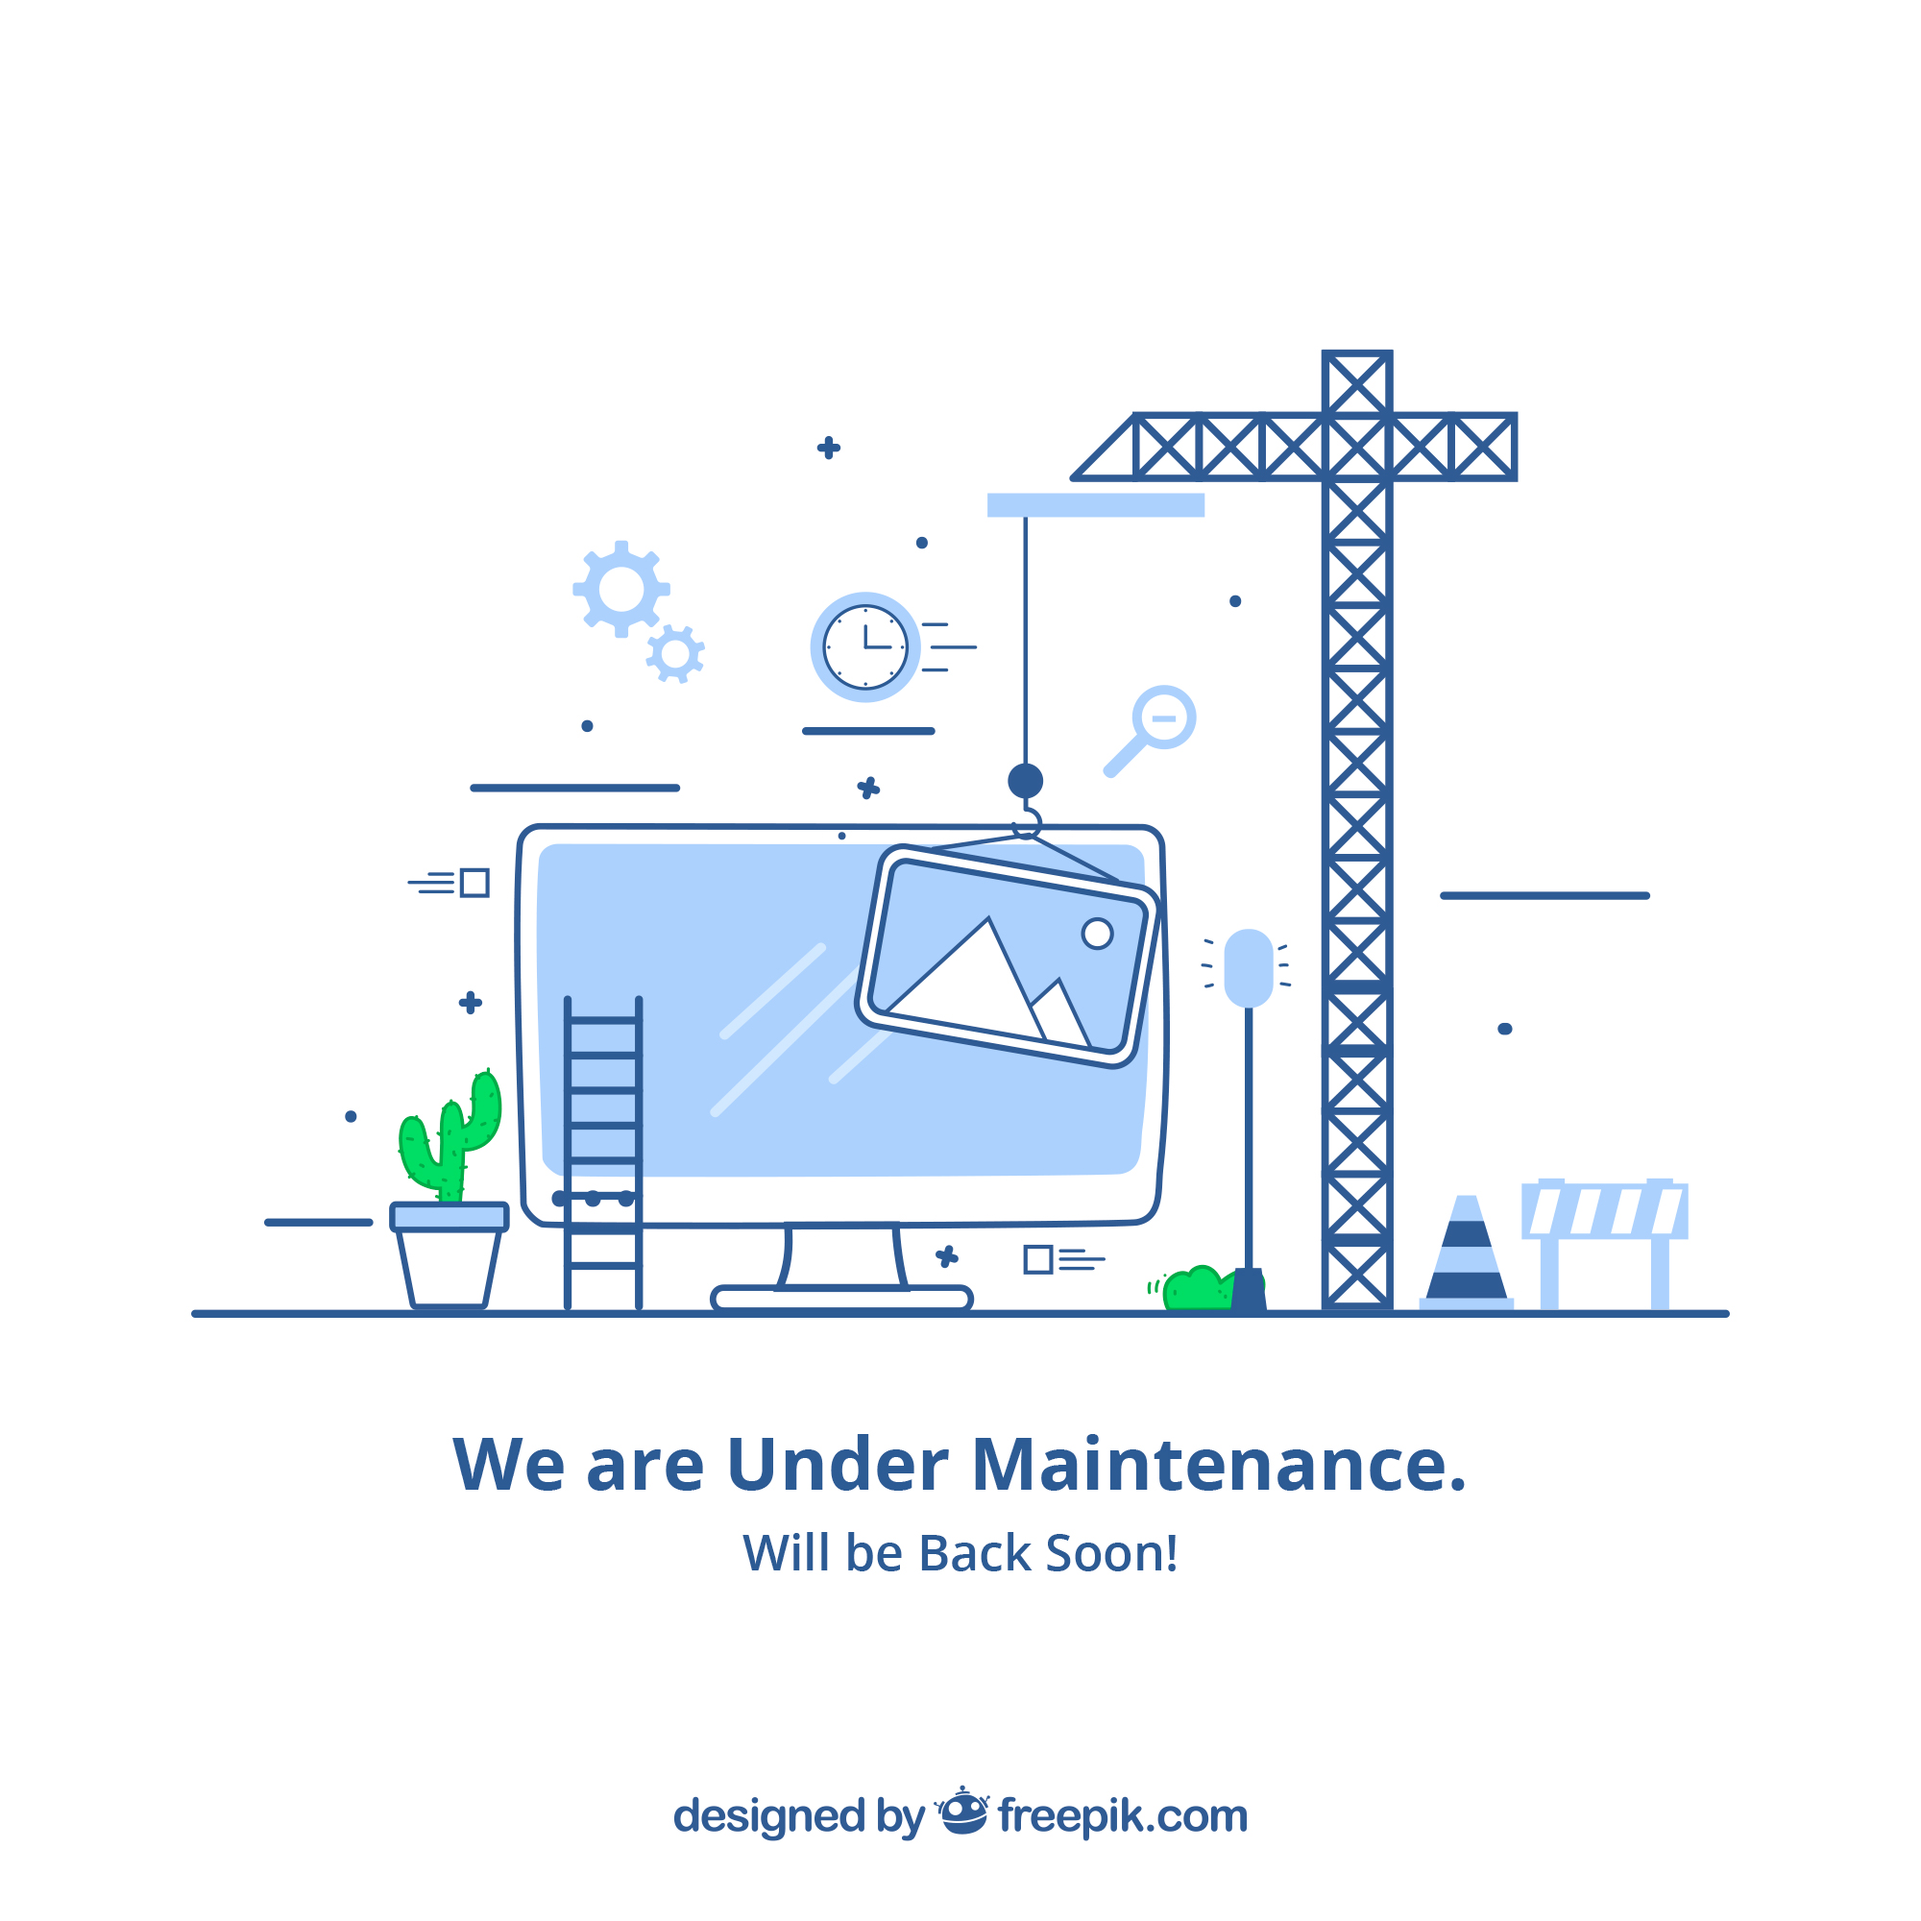
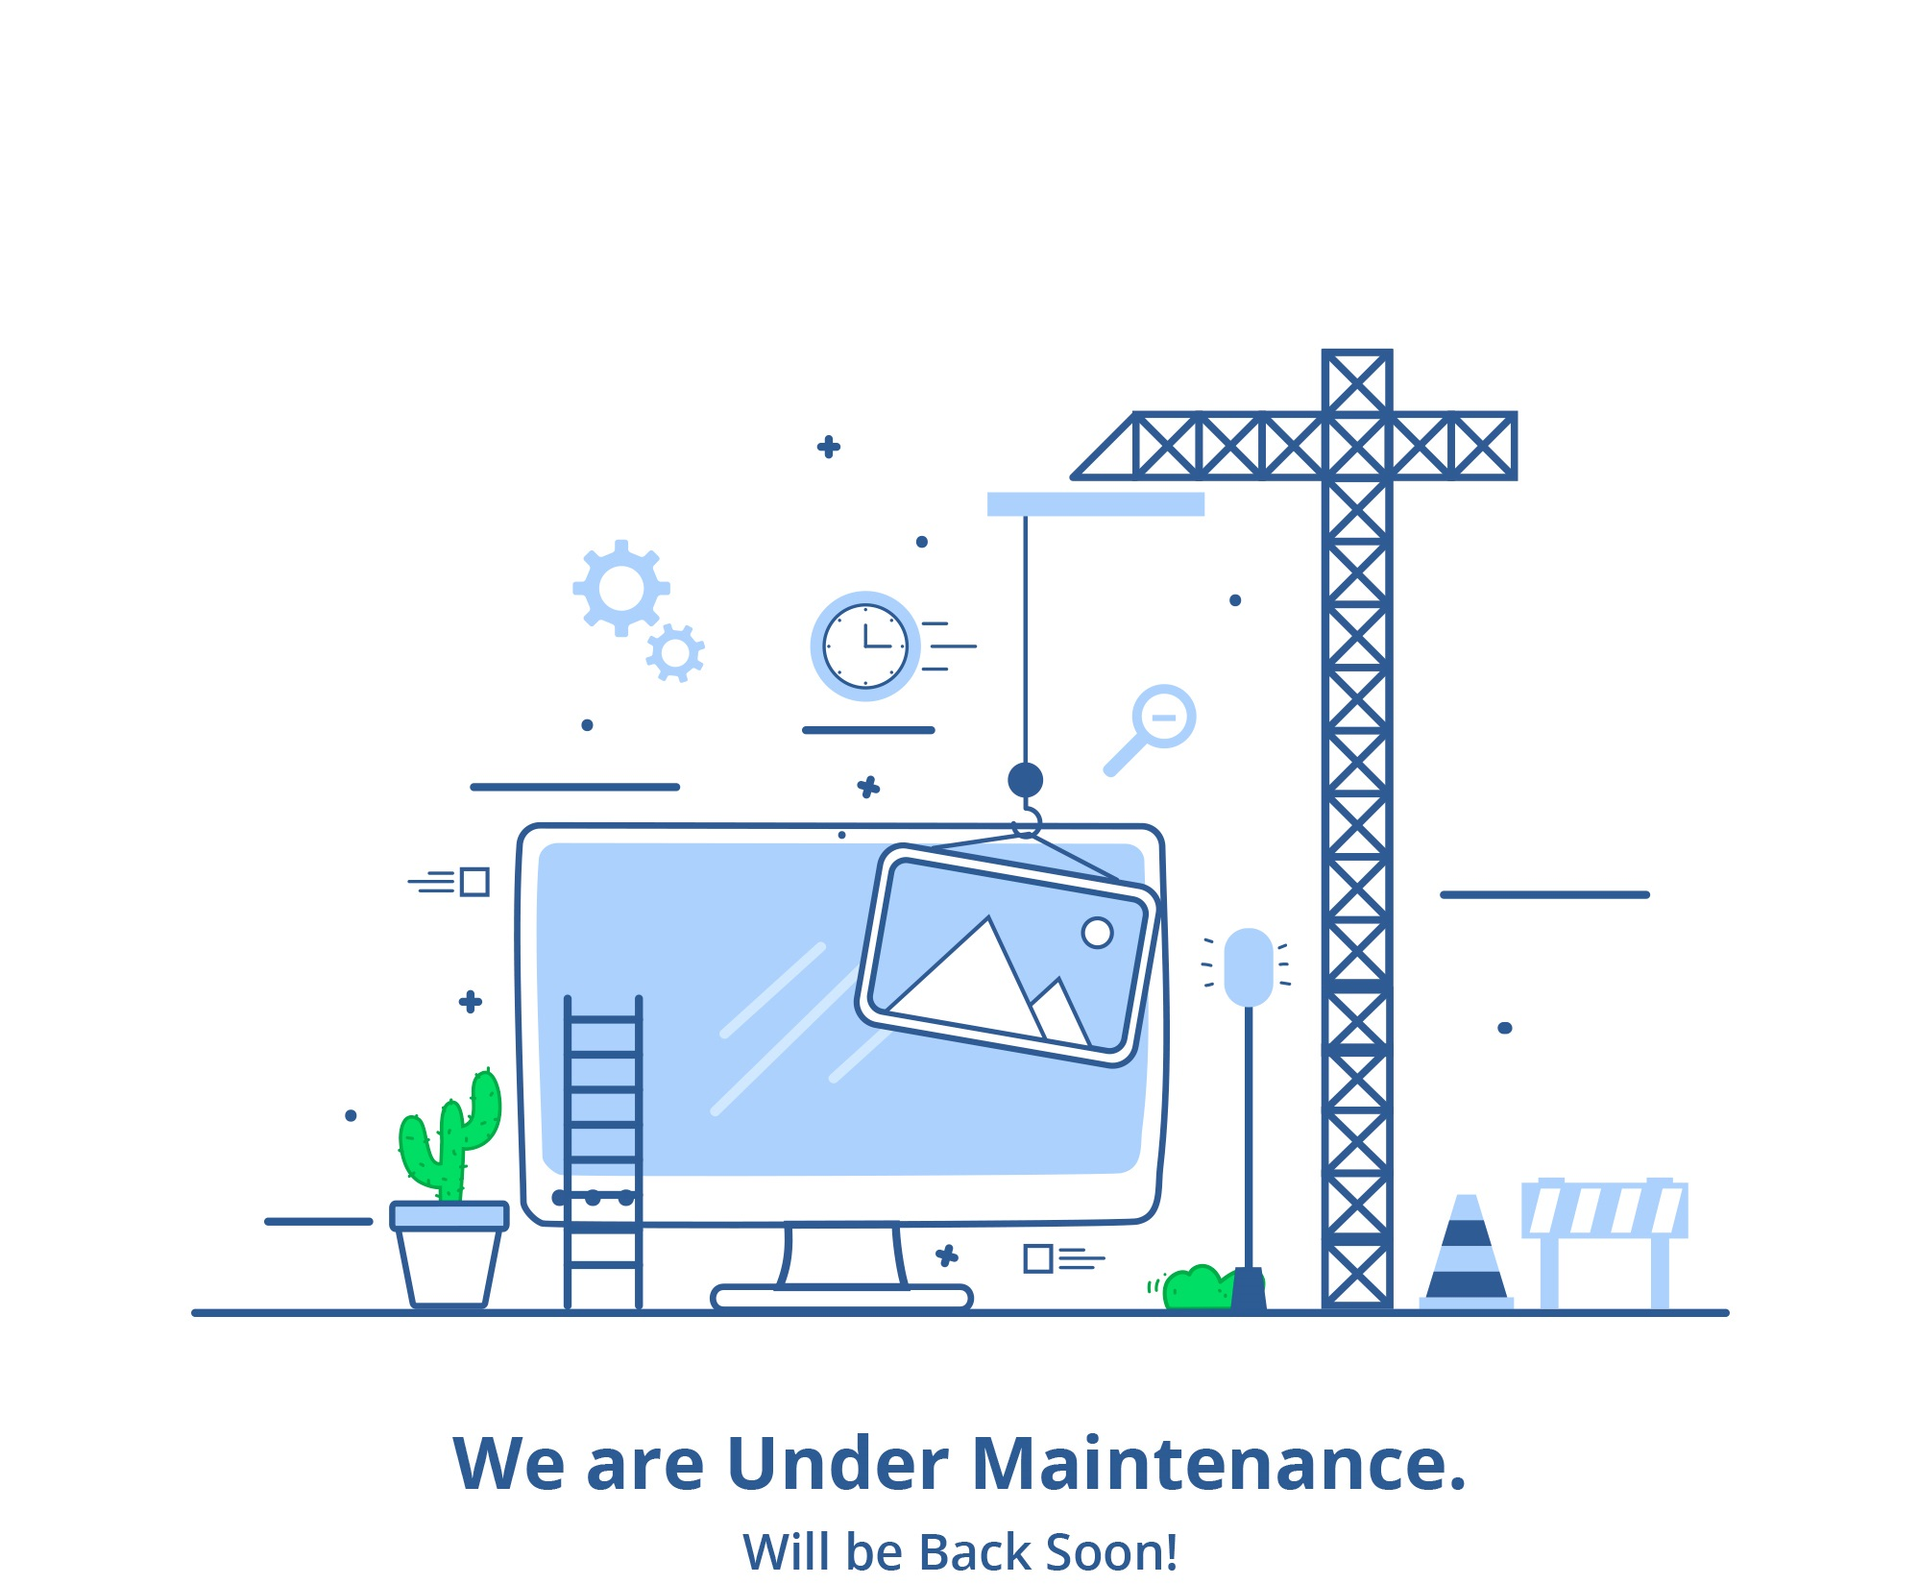
cropped image

Changed region(s): [[0.0931, 0.1856, 0.8999, 0.8351], [0.2172, 0.8969, 0.7758, 0.9897]]

diff --git a/src/sass/home.scss b/src/sass/home.scss
@@ -5,7 +5,9 @@ $transparent: rgba(0, 0, 0, 0);
 .App-header {
     color: $primary-color;
     background-image: url(../images/maintenance.jpg);
-    background-size: cover;
+    background-repeat: no-repeat;
+    background-position: center;
+    background-size: contain;
     min-height: 100vh;
     display: flex;
     flex-direction: column;

diff --git a/src/sass/dist/home.css b/src/sass/dist/home.css
@@ -1,7 +1,9 @@
 .App-header {
   color: #1BBABA;
   background-image: url(../images/maintenance.jpg);
-  background-size: cover;
+  background-repeat: no-repeat;
+  background-position: center;
+  background-size: contain;
   min-height: 100vh;
   display: flex;
   flex-direction: column;

diff --git a/README.md b/README.md
@@ -1,3 +1,5 @@
+[![Netlify Status](https://api.netlify.com/api/v1/badges/06206eea-ca27-416e-a82b-7cdf34d73294/deploy-status)](https://app.netlify.com/sites/brave-snyder-f386a6/deploys)
+
 # Getting Started with Create React App
 
 This project was bootstrapped with [Create React App](https://github.com/facebook/create-react-app).
